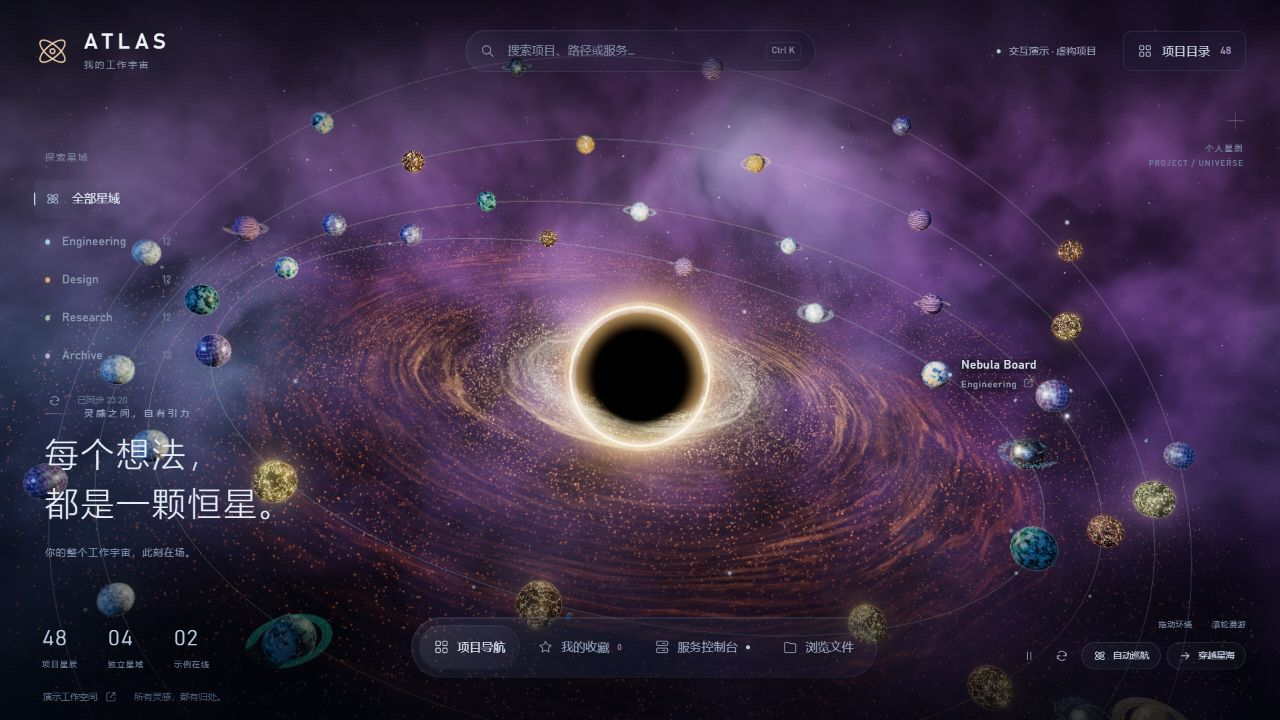
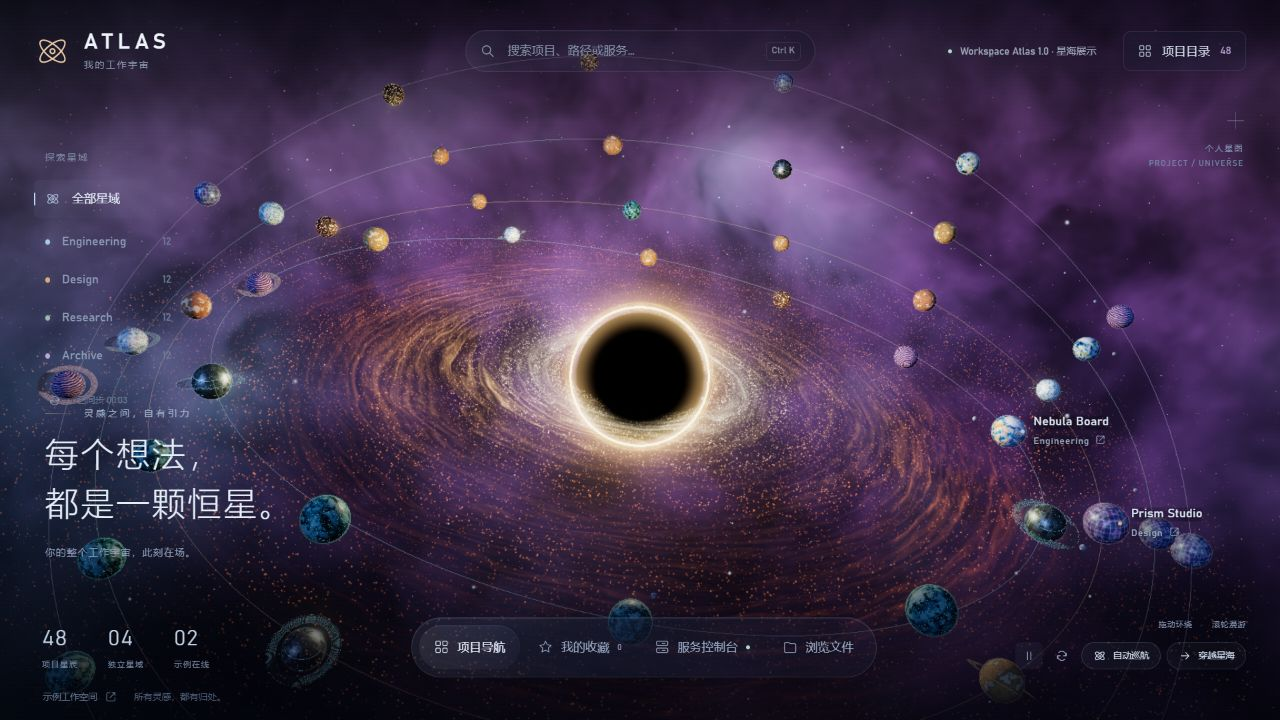
Release Workspace Atlas 1.0 with recorded exploration preview

diff --git a/src/main.js b/src/main.js
@@ -1,8 +1,8 @@
 import './style.css';
-import { demoRequest } from './demo.js';
+import { sampleRequest } from './sample.js';
 
 const isLocal = new URLSearchParams(location.search).get('mode') === 'local';
-const favoriteKey = isLocal ? 'atlas-local-favorites' : 'atlas-demo-favorites';
+const favoriteKey = isLocal ? 'atlas-local-favorites' : 'atlas-showcase-favorites';
 
 const paths = {
   orbit: '<ellipse cx="12" cy="12" rx="10" ry="4" transform="rotate(-40 12 12)"/><ellipse cx="12" cy="12" rx="10" ry="4" transform="rotate(40 12 12)"/><circle cx="12" cy="12" r="1.5"/>',
@@ -84,7 +84,7 @@ $('#app').innerHTML = `
 let toastTimer;
 function toast(message) { $('#toast').textContent=message; $('#toast').hidden=false; clearTimeout(toastTimer); toastTimer=setTimeout(()=>$('#toast').hidden=true,4200); }
 async function api(url, body) {
-  if (!isLocal) return demoRequest(url, body);
+  if (!isLocal) return sampleRequest(url, body);
   const response = await fetch(url,body === undefined ? {} : {method:'POST',headers:{'Content-Type':'application/json','x-atlas-token':state.catalog.token},body:JSON.stringify(body)});
   const data=await response.json();
   if(!response.ok) throw new Error(data.error || '操作未完成');
@@ -143,9 +143,9 @@ function projects() {
   });
 }
 function updateNavigation() {
-  $('.local-status').innerHTML=`<i class="live-dot"></i> ${isLocal?'本机工作空间':'交互演示 · 虚构项目'}`;
-  $('#root-folder').title=isLocal?'在资源管理器中打开':'查看演示路径';
-  $('#root-folder').innerHTML=esc(isLocal?state.catalog.root:'演示工作空间')+' '+icon('external');
+  $('.local-status').innerHTML=`<i class="live-dot"></i> ${isLocal?'本机工作空间':'Workspace Atlas 1.0 · 星海展示'}`;
+  $('#root-folder').title=isLocal?'在资源管理器中打开':'查看示例路径';
+  $('#root-folder').innerHTML=esc(isLocal?state.catalog.root:'示例工作空间')+' '+icon('external');
   $('#metric-online').nextElementSibling.textContent=isLocal?'在线服务':'示例在线';
   document.querySelectorAll('[data-view]').forEach(el=>el.classList.toggle('active',el.dataset.view===state.view&&state.group==='all'));
   $('#group-nav').innerHTML=state.catalog.groups.map(g=>`<button class="group-item ${state.group===g.id?'active':''}" data-group="${esc(g.id)}"><span class="group-dot" style="--group-color:${groupColor(g.name)}"></span><span>${esc(g.name)}</span><b>${g.count}</b></button>`).join('');
@@ -180,7 +180,7 @@ function positionLabels(positions) {
 }
 const projectSymbol=p=>icon(p.services.length?'code':/CAD|模型|图纸/i.test(p.name)?'cube':/Archive|Notes|工作|文档|Docs/i.test(p.name)?'file':'orbit');
 function serviceHTML(s,p,compact=false) {
-  return `<div class="service-row ${compact?'compact':''}"><div class="service-icon">${icon('server')}</div><div class="service-info"><strong>${esc(s.name)}</strong><span><i class="status-dot ${s.online?'online':''}"></i>演示 · ${s.online?'运行中':'未运行'}</span></div><div class="service-actions"><button class="small-button" data-service="${esc(s.id)}">模拟${s.online?'停止':'启动'}</button></div></div>`;
+  return `<div class="service-row ${compact?'compact':''}"><div class="service-icon">${icon('server')}</div><div class="service-info"><strong>${esc(s.name)}</strong><span><i class="status-dot ${s.online?'online':''}"></i>示例 · ${s.online?'运行中':'未运行'}</span></div><div class="service-actions"><button class="small-button" data-service="${esc(s.id)}">模拟${s.online?'停止':'启动'}</button></div></div>`;
 }
 function render() {
   if(!state.catalog) return;
@@ -188,7 +188,7 @@ function render() {
   const list=projects();
   const title=state.group!=='all'?state.group:({projects:'我的项目',favorites:'我的收藏',services:'服务控制台'}[state.view]);
   $('#library-title').innerHTML=`${esc(title)} <span>${state.view==='services'?list.reduce((n,p)=>n+p.services.length,0):list.length}</span>`;
-  $('#library-subtitle').textContent=state.view==='services'?(isLocal?'当前通用本地模式提供文件导航。':'服务状态与启停均为演示，不执行本机命令。'):state.view==='favorites'?'把常用的坐标，留在手边。':state.group!=='all'?state.catalog.groups.find(g=>g.id===state.group).path:'从这里，继续你的创造。';
+  $('#library-subtitle').textContent=state.view==='services'?(isLocal?'当前通用本地模式提供文件导航。':'服务状态与启停均为模拟，不执行本机命令。'):state.view==='favorites'?'把常用的坐标，留在手边。':state.group!=='all'?state.catalog.groups.find(g=>g.id===state.group).path:'从这里，继续你的创造。';
   $('#filter-line').innerHTML=state.query?`<span>搜索“${esc(state.query)}”</span><button id="clear-query">清除搜索 ${icon('close')}</button>`:state.group!=='all'?`<span class="directory-label">${icon('folder')} ${esc(state.group)} 目录中的全部项目</span><button id="open-group">浏览此目录 ${icon('chevron')}</button>`:'';
   $('#filter-line').classList.toggle('visible',Boolean(state.query||state.group!=='all'));
   const el=$('#project-list');

diff --git a/src/sample.js b/src/sample.js
@@ -1,5 +1,5 @@
-// All names, paths, files, and service states in this module are fictional.
-const root = '/demo-workspace';
+// Sample workspace data and simulated service states stay in the browser.
+const root = '/sample-workspace';
 const sectors = {
   Engineering: ['Nebula Board', 'Orbital CAD', 'Plasma Lab', 'Vector Engine', 'Signal Forge', 'Circuit Garden', 'Motion Works', 'Lunar Rover', 'Helix Toolkit', 'Ion Bridge', 'Quantum Bench', 'Terra Mesh'],
   Design: ['Prism Studio', 'Canvas Orbit', 'Light Journal', 'Color Drift', 'Type Foundry', 'Velvet Interface', 'Paper Moon', 'Shape Atlas', 'Pixel Harbor', 'Echo Gallery', 'Bloom System', 'Opal Frames'],
@@ -14,15 +14,15 @@ const projects = Object.entries(sectors).flatMap(([group, names], groupIndex) =>
   const groupPath = `${root}/${group}`;
   const records = names.map((name, index) => {
     const path = `${groupPath}/${name}`;
-    const id = `demo-${groupIndex}-${index}`;
+    const id = `sample-${groupIndex}-${index}`;
     const entries = [entry('README.md', `${path}/README.md`, 'file'), entry('docs', `${path}/docs`), entry('output', `${path}/output`)];
     directories.set(path, entries);
     directories.set(`${path}/docs`, [entry('overview.md', `${path}/docs/overview.md`, 'file')]);
     directories.set(`${path}/output`, [entry('preview.svg', `${path}/output/preview.svg`, 'file')]);
     return {
-      id, name, group, path, relativePath: `${group}/${name}`, description: `${descriptions[group]} · 演示项目`,
+      id, name, group, path, relativePath: `${group}/${name}`, description: descriptions[group],
       kind: groupIndex < 3 ? 'code' : 'folder', modifiedAt: stamp, entries,
-      services: index === 0 ? [{ id: `${id}-service`, name: `${name} Preview`, demo: true, online: groupIndex % 2 === 0, canStart: true }] : [],
+      services: index === 0 ? [{ id: `${id}-service`, name: `${name} Preview`, sample: true, online: groupIndex % 2 === 0, canStart: true }] : [],
     };
   });
   directories.set(groupPath, records.map(p => entry(p.name, p.path)));
@@ -31,22 +31,22 @@ const projects = Object.entries(sectors).flatMap(([group, names], groupIndex) =>
 const groups = Object.keys(sectors).map(name => ({ id: name, name, path: `${root}/${name}`, count: sectors[name].length }));
 directories.set(root, groups.map(g => entry(g.name, g.path)));
 
-export async function demoRequest(url, body) {
+export async function sampleRequest(url, body) {
   const request = new URL(url, 'https://atlas.invalid');
-  if (request.pathname === '/api/catalog') return structuredClone({ mode: 'demo', root, groups, projects, scannedAt: new Date().toISOString() });
+  if (request.pathname === '/api/catalog') return structuredClone({ mode: 'showcase', root, groups, projects, scannedAt: new Date().toISOString() });
   if (request.pathname === '/api/browse') {
     const path = request.searchParams.get('path') || root;
     const entries = directories.get(path);
-    if (!entries) throw new Error('演示目录不存在');
+    if (!entries) throw new Error('示例目录不存在');
     return structuredClone({ path, parent: path === root ? null : path.slice(0, path.lastIndexOf('/')), entries });
   }
-  if (body && ['/api/open', '/api/reveal'].includes(request.pathname)) return { ok: true, message: '这是虚构演示路径；本地模式可打开实际文件。' };
+  if (body && ['/api/open', '/api/reveal'].includes(request.pathname)) return { ok: true, message: '这是示例工作空间路径；本地模式可打开实际文件。' };
   const match = /^\/api\/services\/([^/]+)\/start$/.exec(request.pathname);
   if (body && match) {
     const service = projects.flatMap(p => p.services).find(s => s.id === match[1]);
-    if (!service) throw new Error('演示服务不存在');
+    if (!service) throw new Error('示例服务不存在');
     service.online = !service.online;
     return { ok: true, message: `已模拟${service.online ? '启动' : '停止'}，没有执行本机命令。` };
   }
-  throw new Error('演示操作不存在');
+  throw new Error('示例操作不存在');
 }

diff --git a/index.html b/index.html
@@ -4,8 +4,8 @@
     <meta charset="UTF-8" />
     <meta name="viewport" content="width=device-width, initial-scale=1.0" />
     <meta name="theme-color" content="#03050b" />
-    <meta name="description" content="Workspace Atlas：用程序生成的星海与独立星球探索项目、文件和灵感。开源交互演示。" />
-    <title>Workspace Atlas · 项目星海</title>
+    <meta name="description" content="Workspace Atlas 1.0：用程序生成的星海与独立星球探索项目、文件和灵感。开源三维工作空间导航。" />
+    <title>Workspace Atlas 1.0 · 项目星海</title>
     <link rel="icon" type="image/svg+xml" href="./favicon.svg" />
   </head>
   <body>

diff --git a/README.en.md b/README.en.md
@@ -8,6 +8,7 @@
 <p align="center">Turn projects into distinctive planets. Explore your workspace with smooth flights and automatic cruise.</p>
 
 <p align="center">
+  <a href="https://github.com/cgbpnw5bw4-create/workspace-atlas/releases/tag/v1.0.0"><img src="https://img.shields.io/badge/Version-v1.0.0-c9a66b?style=flat-square" alt="Workspace Atlas 1.0 stable release" /></a>
   <a href="https://github.com/cgbpnw5bw4-create/workspace-atlas/actions/workflows/ci.yml"><img src="https://img.shields.io/github/actions/workflow/status/cgbpnw5bw4-create/workspace-atlas/ci.yml?branch=main&amp;label=Build&amp;style=flat-square" alt="Build status" /></a>
   <a href="https://cgbpnw5bw4-create.github.io/workspace-atlas/"><img src="https://img.shields.io/github/actions/workflow/status/cgbpnw5bw4-create/workspace-atlas/pages.yml?branch=main&amp;label=GitHub%20Pages&amp;style=flat-square" alt="GitHub Pages deployment status" /></a>
   <a href="LICENSE"><img src="https://img.shields.io/badge/License-MIT-c9a66b?style=flat-square" alt="MIT License" /></a>
@@ -16,7 +17,8 @@
 </p>
 
 <p align="center">
-  <a href="https://cgbpnw5bw4-create.github.io/workspace-atlas/"><strong>Live demo</strong></a> ·
+  <a href="https://cgbpnw5bw4-create.github.io/workspace-atlas/"><strong>Try online</strong></a> ·
+  <a href="https://github.com/cgbpnw5bw4-create/workspace-atlas/releases/tag/v1.0.0">Release notes</a> ·
   <a href="#quick-start">Quick start</a> ·
   <a href="#features">Features</a> ·
   <a href="README.md">简体中文</a>
@@ -27,9 +29,17 @@
 Workspace Atlas is a **Three.js + Vite** project navigator. Procedural nebulae, an accretion disk, planets and orbits form an interactive map of your work. Select a planet to fly closer and explore its project files.
 
 <p align="center">
-  <a href="https://cgbpnw5bw4-create.github.io/workspace-atlas/"><img src="docs/images/atlas-overview.jpg" width="100%" alt="A galaxy of 48 fictional projects in Workspace Atlas" /></a>
+  <a href="https://cgbpnw5bw4-create.github.io/workspace-atlas/"><img src="docs/images/atlas-overview.jpg" width="100%" alt="A galaxy of 48 sample projects in Workspace Atlas" /></a>
   <br />
-  <sub>48 fictional projects · 4 sectors · Ready to explore in your browser</sub>
+  <sub>48 sample projects · 4 sectors · Ready to explore in your browser</sub>
+</p>
+
+## See it in motion
+
+<p align="center">
+  <img src="docs/images/atlas-exploration.webp" width="100%" alt="Recorded Workspace Atlas interaction: automatic cruise and clicking a planet to enter its project" />
+  <br />
+  <sub>Recorded in the application: automatic cruise → return to the galaxy → click a planet → smooth flight into its project</sub>
 </p>
 
 ## Features
@@ -40,11 +50,11 @@ Workspace Atlas is a **Three.js + Vite** project navigator. Procedural nebulae, 
 | **Smooth camera flights** | Select a planet, label or project card to approach it and open its panel. |
 | **Automatic cruise** | Visit the current selection in order; drag, scroll or use the takeover button to regain control. |
 | **Project directory** | Search, filter, sort and switch between grid and list views. Favorites stay in the current browser. |
-| **File navigation** | Explore virtual folders in the demo, or connect a local workspace and open files on Windows. |
-| **Two operating modes** | A static demo for sharing, and an optional local mode for your own project folders. |
+| **File navigation** | Explore sample folders in the showcase, or connect a local workspace and open files on Windows. |
+| **Two operating modes** | A galaxy showcase to explore online, and an optional local mode for your own project folders. |
 
 <p align="center">
-  <img src="docs/images/atlas-project.jpg" width="100%" alt="The Orbital CAD planet with its project file panel" />
+  <img src="docs/images/atlas-project.jpg" width="100%" alt="A planet's project file panel after clicking it and flying closer" />
   <br />
   <sub>From the galaxy overview to an individual project</sub>
 </p>
@@ -60,7 +70,7 @@ npm ci
 npm run dev
 ```
 
-Open the local URL printed by Vite. The default demo includes **48 fictional projects** across Engineering, Design, Research and Archive. Files and service states are simulated. No account, API key, local filesystem scan or business backend is required.
+Open the local URL printed by Vite. The default showcase includes **48 sample projects** across Engineering, Design, Research and Archive. Files are virtual, and service states and controls are simulated. No account, API key, local filesystem scan or business backend is required.
 
 ```sh
 npm run build
@@ -82,12 +92,12 @@ The generated `dist/` folder is a static site suitable for GitHub Pages.
 
 ## Operating modes
 
-| | Online / static demo | Local workspace |
+| | Galaxy showcase | Local workspace |
 | --- | --- | --- |
-| Projects | 48 fictional projects across 4 sectors | An explicitly configured local root |
+| Projects | 48 sample projects across 4 sectors | An explicitly configured local root |
 | Files | Virtual folders in the browser | Real directories and file entries |
 | Services | Simulated states and controls; no system commands | No business service integrations |
-| Start | Live demo or `npm run dev` | Set `ATLAS_ROOT`, then run `npm start` |
+| Start | Try online or `npm run dev` | Set `ATLAS_ROOT`, then run `npm start` |
 
 ### Connect a local directory
 
@@ -101,11 +111,11 @@ npm start
 
 Open `http://127.0.0.1:4317`; the server redirects to local mode. Set `ATLAS_PORT` to change the port. On Linux/macOS, use `ATLAS_ROOT=/path/to/workspace npm start`.
 
-Directory browsing is cross-platform. Opening files with their default application and revealing files in Explorer require Windows; other platforms return an unsupported-operation response. The generic local mode does not include business service launch commands and returns an empty service list. Without `ATLAS_ROOT`, `npm start` serves the demo.
+Directory browsing is cross-platform. Opening files with their default application and revealing files in Explorer require Windows; other platforms return an unsupported-operation response. The generic local mode does not include business service launch commands and returns an empty service list. Without `ATLAS_ROOT`, `npm start` serves the galaxy showcase.
 
-**Keep the local API on loopback. Do not expose it through a public tunnel or reverse proxy.** Publish only the static demo to GitHub Pages.
+**Keep the local API on loopback. Do not expose it through a public tunnel or reverse proxy.** GitHub Pages serves the static galaxy showcase.
 
-Clear the variable to restore the default demo: `Remove-Item Env:ATLAS_ROOT`.
+Clear the variable to restore the default showcase: `Remove-Item Env:ATLAS_ROOT`.
 
 ## Project structure
 
@@ -115,9 +125,9 @@ Clear the variable to restore the default demo: `Remove-Item Env:ATLAS_ROOT`.
 | `src/scene.js` | 3D scene, camera flights and automatic cruise |
 | `src/planets.js` | Procedural planets, rings and moons |
 | `src/nebula.js` | Procedural nebula background |
-| `src/demo.js` | Fictional projects, directories and service states |
+| `src/sample.js` | Sample projects, directories and service states |
 | `server.mjs` | Optional local directory API and static file server |
-| `tests/` | Demo behavior and local API boundary tests |
+| `tests/` | Showcase behavior and local API boundary tests |
 
 Run checks: `npm test` · `npm run build`
 
@@ -125,12 +135,14 @@ Run checks: `npm test` · `npm run build`
 
 - The galaxy is an artistic navigation scene, not an astronomical or physical simulation.
 - Rendering performance depends on the device and GPU. When WebGL initialization fails, the project directory remains available; automatic cruise is unavailable.
-- Demo projects, files and service states are fictional and do not connect to real business services.
+- Sample projects and virtual files populate the showcase. Service states and controls are simulated; they do not connect to real business services or execute system commands.
 - The scene bundle currently exceeds 500 kB, producing a size warning without preventing a successful build.
 
 ## Contributing
 
-Use [Issues](https://github.com/cgbpnw5bw4-create/workspace-atlas/issues) to report bugs or suggest improvements. Pull requests are welcome. Include your browser version, operating system and reproduction steps in bug reports.
+Creative visual ideas are welcome: planetary terrain, nebula palettes, camera movements and new interactions. Share your ideas, reference images or implementations through [Issues](https://github.com/cgbpnw5bw4-create/workspace-atlas/issues) or a Pull Request, and help shape this galaxy.
+
+Bug reports and feature suggestions are welcome too. Include your browser version, operating system and reproduction steps in bug reports.
 
 ## License
 
